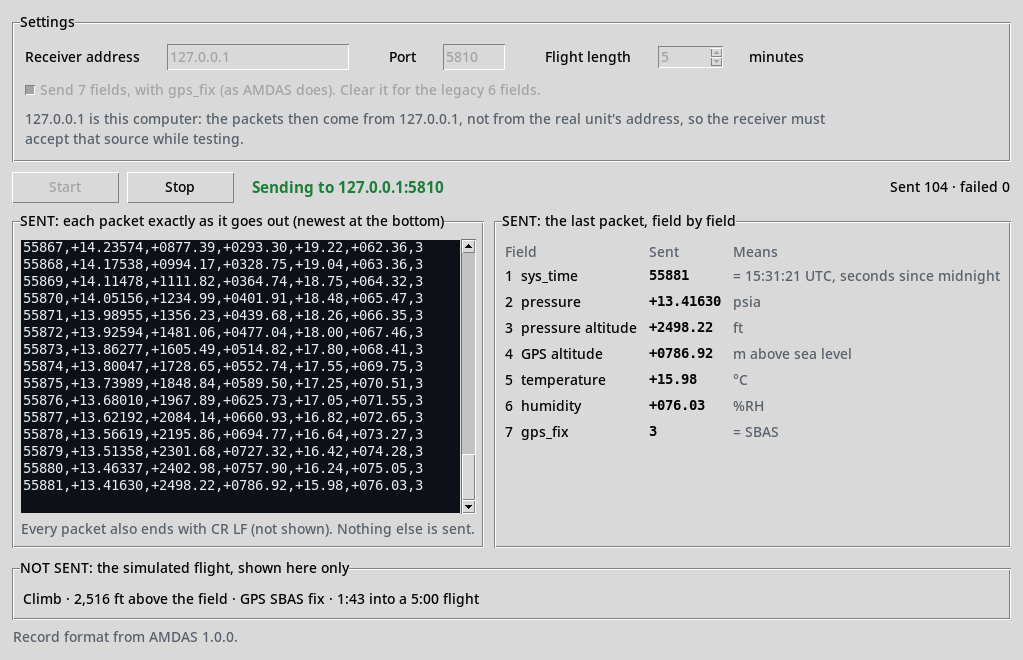
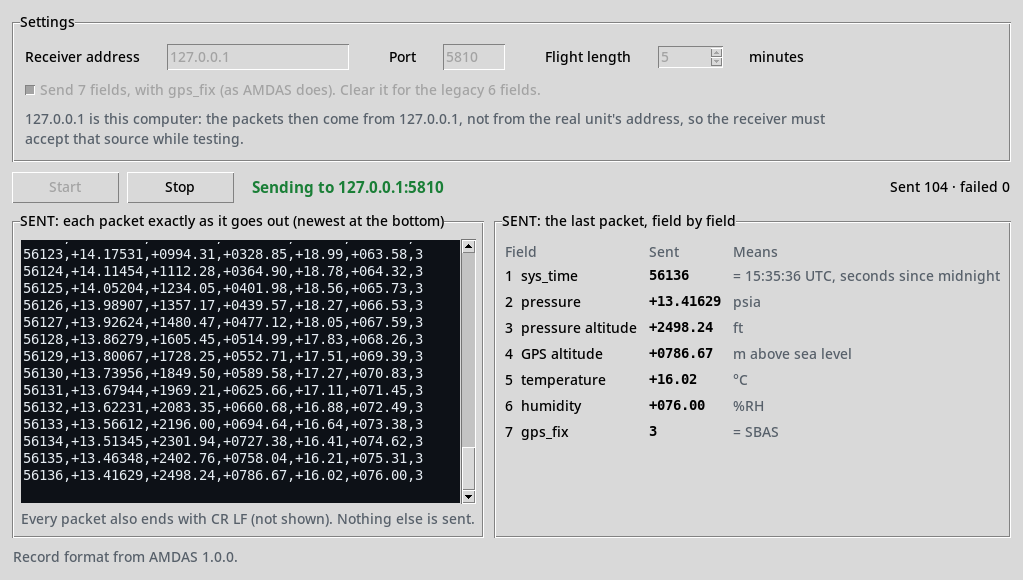
Window: remove the simulated-flight box; only what is sent is shown

Changed region(s): [[0.0, 0.031, 1.0, 0.9931], [0.4848, 0.3103, 0.7273, 0.3414]]

diff --git a/amdas_udp_sender.py b/amdas_udp_sender.py
@@ -14,7 +14,7 @@ from tkinter import font as tkfont
 from tkinter import messagebox, ttk
 
 from amdas import AMDAS_VERSION
-from flight import FIX_NAMES, MAX_MINUTES, MIN_MINUTES
+from flight import MAX_MINUTES, MIN_MINUTES
 from sender import Sender
 
 VERSION = "1.0.1"
@@ -36,17 +36,13 @@ FIELDS = (
 )
 
 
-def mmss(seconds):
-    return "%d:%02d" % divmod(int(seconds), 60)
-
-
 class Window:
     def __init__(self, root):
         self.root = root
         self.sender = None
         self.events = queue.Queue()
         root.title("%s %s" % (TITLE, VERSION))
-        root.minsize(900, 660)
+        root.minsize(900, 580)
         root.protocol("WM_DELETE_WINDOW", self.close)
         mono = tkfont.nametofont("TkFixedFont").copy()
         mono.configure(size=10)
@@ -124,14 +120,8 @@ class Window:
             means.grid(row=row, column=2, sticky="w")
             self.field_values.append((value, means))
 
-        # Not sent: what the simulation is doing
-        info = ttk.LabelFrame(outer, text="NOT SENT: the simulated flight, shown here only", padding=8)
-        info.pack(fill="x", pady=(10, 0))
-        self.flight = ttk.Label(info, text="Press Start.", foreground=GREY)
-        self.flight.pack(anchor="w")
-
         ttk.Label(outer, foreground=GREY, text="Record format from AMDAS %s." % AMDAS_VERSION
-                  ).pack(anchor="w", pady=(6, 0))
+                  ).pack(anchor="w", pady=(8, 0))
         self.root.after(100, self.poll)
 
     # ---- start / stop
@@ -165,7 +155,6 @@ class Window:
             widget.configure(state="normal")
         self.stop_button.configure(state="disabled")
         self.state.configure(text="Stopped", fg=GREY)
-        self.flight.configure(text="Stopped.")
 
     def close(self):
         self.stop()
@@ -184,10 +173,6 @@ class Window:
                 if self.sender is None:
                     continue
                 self.update_counts()
-                self.flight.configure(foreground="", text="%s · %s ft above the field · GPS %s · %s into a "
-                                      "%s flight" % (point.phase, format(round(point.altitude_ft), ","),
-                                                     FIX_NAMES[point.gps_fix], mmss(point.elapsed),
-                                                     mmss(self.sender.flight.total)))
                 if error:
                     self.state.configure(text="Send failed: %s" % error, fg=RED)
                     continue

diff --git a/README.md b/README.md
@@ -30,8 +30,6 @@ What the window shows:
   Nothing else is sent.
 - **SENT, right:** the last packet taken apart field by field, with what each field means (sys_time as a
   UTC clock time, gps_fix as a fix name).
-- **NOT SENT, bottom:** what the simulated flight is doing: phase, altitude above the field, GPS state and
-  time into the flight. For information only.
 
 ### Receiver on the same computer (127.0.0.1)
 
